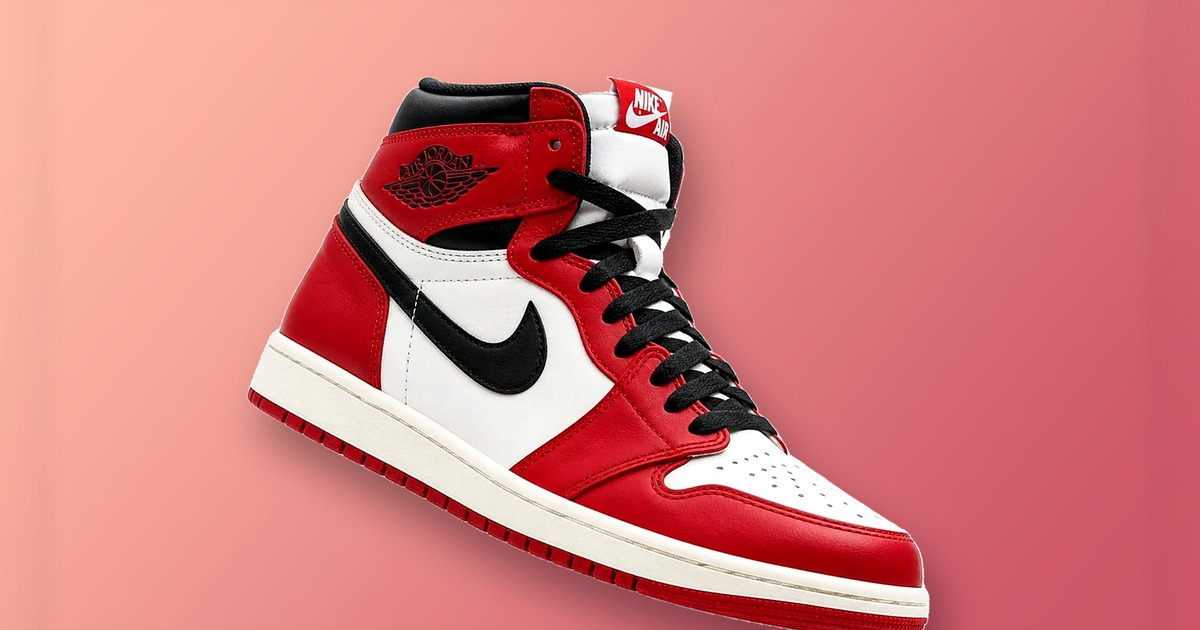
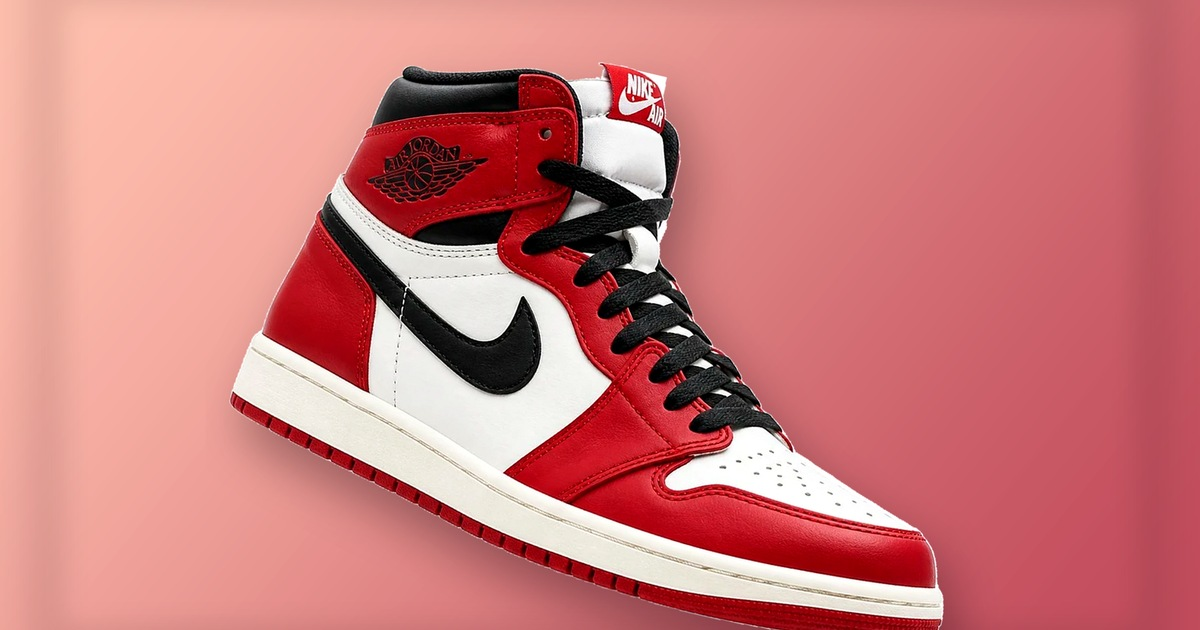
Refine Kinetic Clarity hero: cleaner canvas, no frame artifact

Changed region(s): [[0.185, 0.0905, 0.8325, 1.0]]

diff --git a/redesigns/kinetic-clarity/index.html b/redesigns/kinetic-clarity/index.html
@@ -93,7 +93,7 @@
         alt="Three Nike sneakers floating on a soft peach stage canvas."
         fetchpriority="high"
         decoding="async">
-      <figcaption>Unofficial concept · Not affiliated with Nike, Inc. Footwear floats on a soft stage — no hard studio boxes.</figcaption>
+      <figcaption>Unofficial concept · Not affiliated with Nike, Inc. One product, one canvas — the stage leads with presence.</figcaption>
     </figure>
 
     <section class="case-story page-section">
